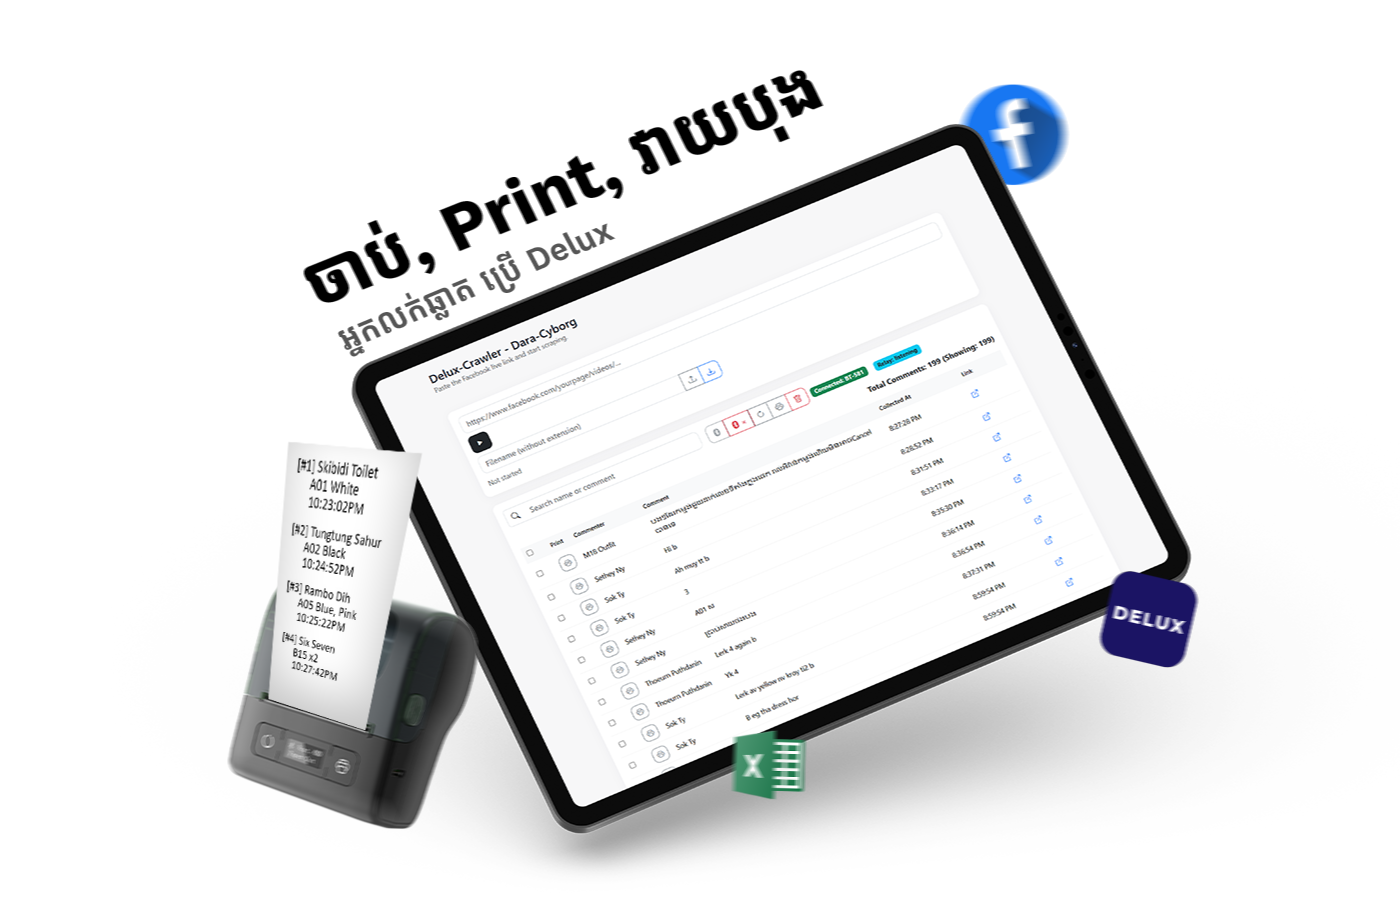
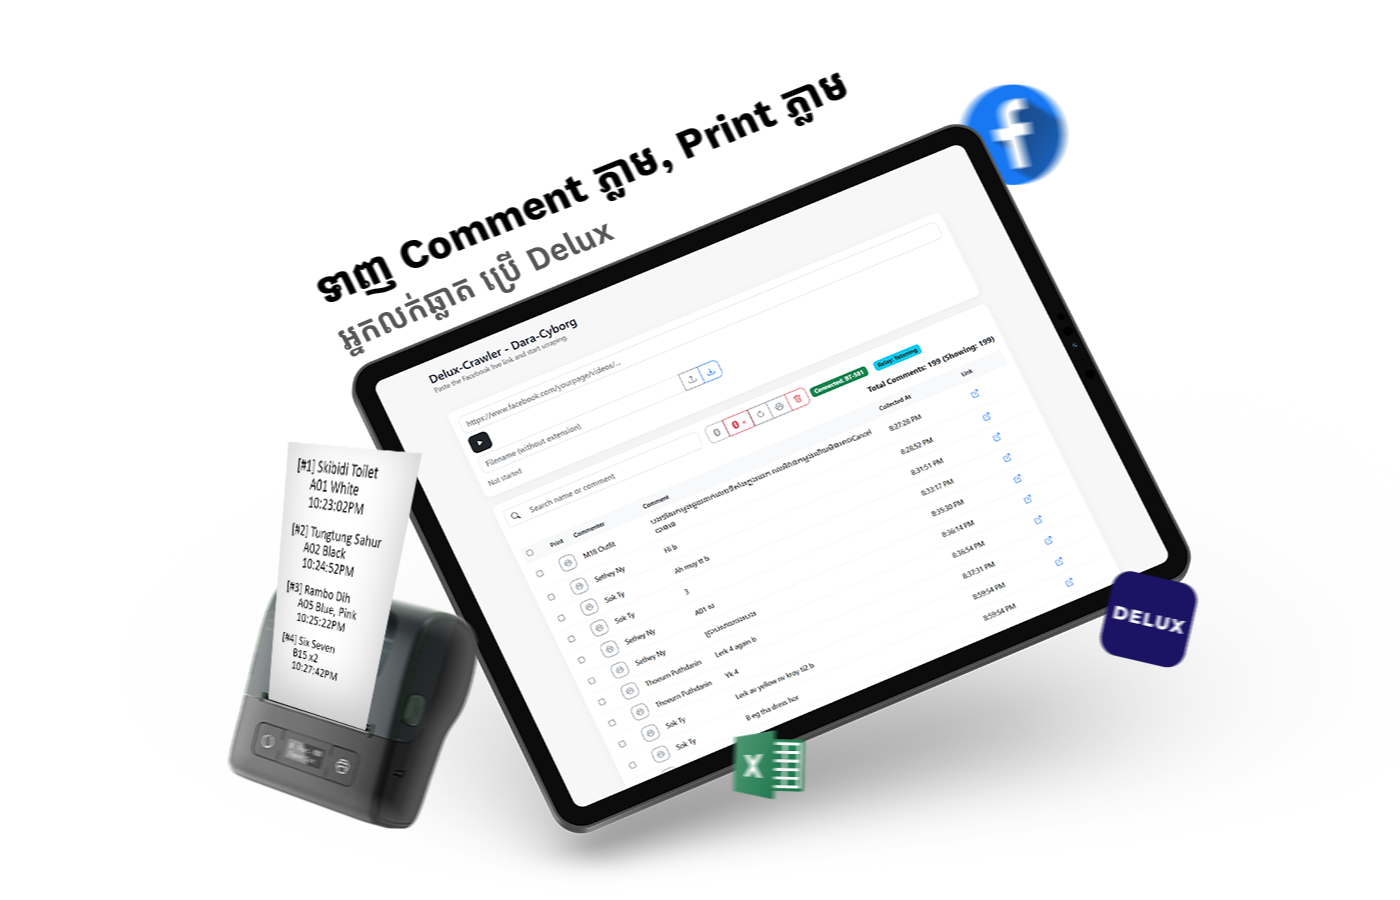
video updated

Changed region(s): [[0.215, 0.0622, 0.6143, 0.3422]]

diff --git a/locales/km.js b/locales/km.js
@@ -4,7 +4,7 @@ window.DELUX_LOCALES.km = {
   pageTitle: "Delux Crawler",
   pageDescription:
     "Delux Crawler ជួយម្ខាស់អជីវកម្ម ក្នុងការទាញ comment ភ្ញៀវបានច្រើនជាងមុន តបភ្ញៀវលឿនជាងមុន និងគ្រប់គ្រងការកម្មង់បានច្រើនជាងមុន",
-  heroTitle: "Live លក់មិនបាត់ Comment ភ្ញៀវទៀតទេ!",
+  heroTitle: "Live លក់មិនខ្លាចបាត់ comment ភ្ញៀវ!",
   heroSubtitle:
     "ចាប់ Comment ពេល Live → បម្លែងជា Order ភ្លាមៗ",
   ctaPrimary: "Start Free Trial",

diff --git a/index.html b/index.html
@@ -62,6 +62,21 @@
     </header>
 
     <main class="content" id="features">
+      <section class="section-shell demo-shell" aria-label="Product demo">
+        <h2>Demo Video</h2>
+        <video
+          class="demo-video"
+          src="images/appstart.mp4"
+          controls
+          autoplay
+          muted
+          loop
+          playsinline
+          preload="metadata"
+          poster="images/landing-mockup.png"
+        ></video>
+      </section>
+
       <section class="section-shell">
         <h2 id="instantHooksTitle"></h2>
         <p class="section-intro" id="instantHooksIntro"></p>

diff --git a/styles.css b/styles.css
@@ -163,7 +163,8 @@ p {
   align-self: start;
 }
 
-.hero-mockup img {
+.hero-mockup img,
+.hero-mockup video {
   width: 100%;
   display: block;
   border: 0;
@@ -174,6 +175,19 @@ p {
 .content {
   margin-top: 1.6rem;
   margin-bottom: 2.2rem;
+}
+
+.demo-shell {
+  margin-bottom: 1.7rem;
+}
+
+.demo-video {
+  width: 100%;
+  margin-top: 0.8rem;
+  border-radius: 16px;
+  border: 1px solid #d8e2f5;
+  background: #000;
+  box-shadow: 0 12px 28px rgba(15, 23, 42, 0.16);
 }
 
 .section-shell {
